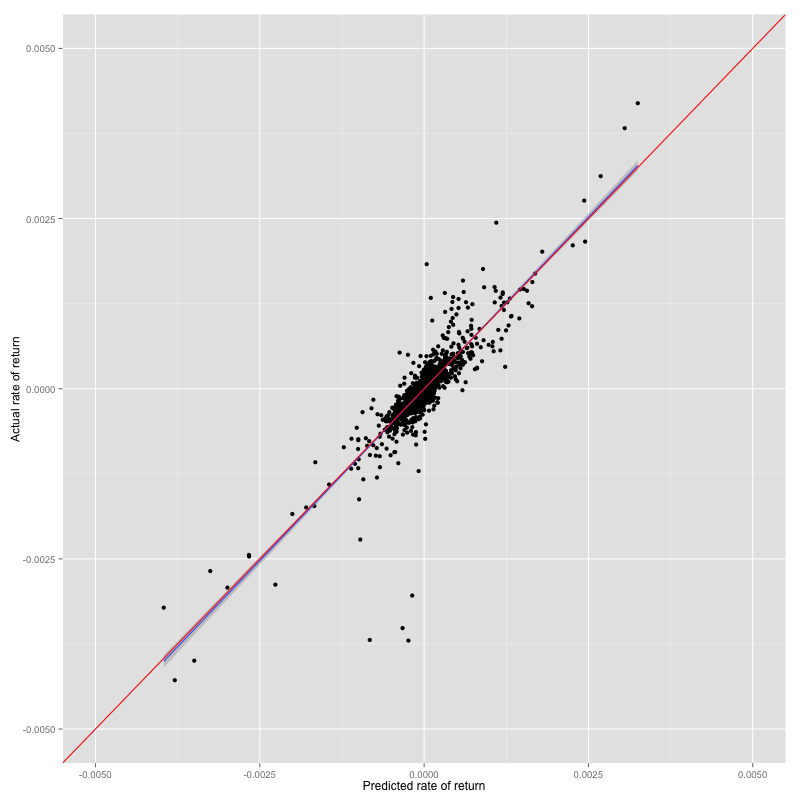
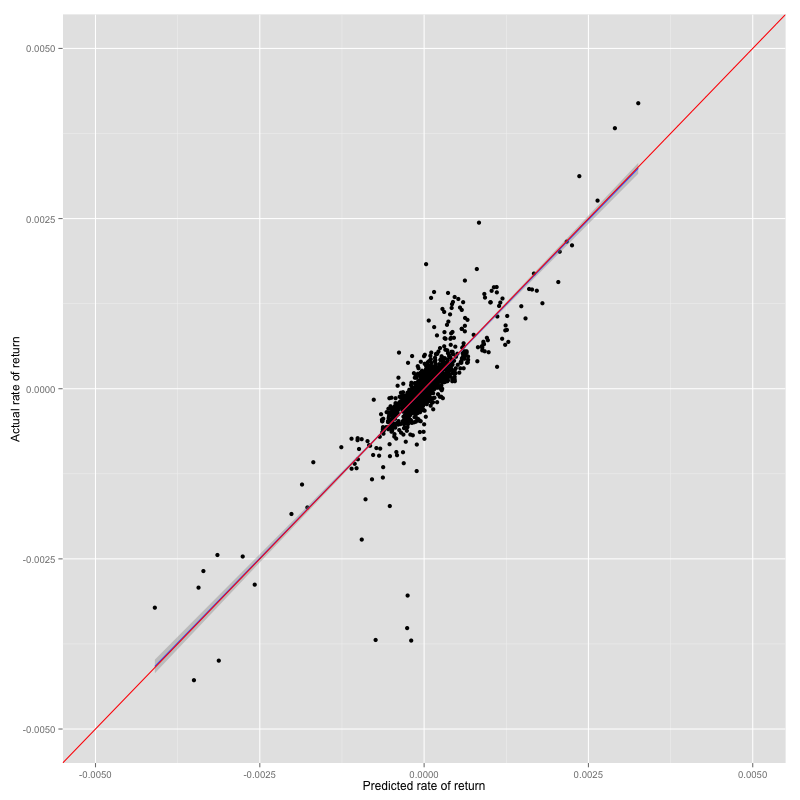
add plot predict vs actual

diff --git a/README.md b/README.md
@@ -43,6 +43,7 @@ Amount of transaction for test and train is 6000 between 2014.06.03 to 2014.06.1
 ### 3) Analyse features
 The model uses indicator values as its feature. We plot all features against each others too 
 
+*Execute R code*
 ```
 # Prepare raw data
 source("forex_study.R")`
@@ -80,10 +81,12 @@ Now we can verify that ADX give no information about rate of return.
 We choose generalized linear model (GLM) because it is flexible generalization for ordinary linear regression.
 
 ### Training
+*Execute R code*
 ```
 forex_train_model(data)
 ```
-**Result**
+**Result of GLM training**
+*Measure GLM RMSE*
 ```
 Generalized Linear Model 
 
@@ -100,7 +103,19 @@ Resampling results
   RMSE      Rsquared  RMSE SD   Rsquared SD
   0.000222  0.708     1.38e-05  0.0315     
 
- 
+```
+
+### Testing
+RMSE number is good for comparing model. but it doesn't give any picture of how well it predict. We interprete the result by;
+
+* If rate of return > 0, count as **PROFIT (1)**
+
+* If rate of return <= 0, count as **LOSE (-1)**
+
+And plot confusion matrix to visualization of the performance of an algorithm.
+
+*Measure GLM accuracy*
+```
 Confusion Matrix and Statistics
 
           Reference
@@ -127,24 +142,89 @@ Prediction   -1    1
                                          
        'Positive' Class : -1    
 ```
+GLM model accuracy from estimation above is 81.8% which is quite high. But there is a room for improvement
 
-### Testing
-RMSE number is good for comparing model. but it doesn't give any picture of how well it predict. We interprete the result by;
+#### Visualize prediction result
+We plot prediction result against actual rate of return to show how effective the algorithm is. The diagonal line(red) is ideal condition, dot closer to the line is preferred. Linear regression line(blue) of the plot shows relationship between prediction and actual. Blue line should be on red line in ideal case.
 
-* If rate of return > 0, count as **PROFIT (1)**
-
-* If rate of return <= 0, count as **LOSE (-1)**
-
-And plot confusion matrix to visualization of the performance of an algorithm.
+*Prediction result vs test set of GLM*
+![prediction result vs test set](https://raw.githubusercontent.com/natapone/Project_ForexStudy/master/Images/predict_result_vs_test_set_glm.png)
 
 ## Improvement
-not linear
+We analyse in further detail to optimize the model.
+
+### Improvement1: remove non-information input
+Simplify plots show that ADX give no relationship to rate od return. RSI, MFI and BBAND return similar pattern. We can remove some indicators to keep model as simple as possible. We rebuild model again with RSI and MACD then look at the result.
+
+*Execute R code*
+```
+d1 = model_improve_1(data)
+```
+
+*Measure RMSE of GLM improvement*
+```
+Generalized Linear Model 
+
+3552 samples
+   2 predictors
+
+No pre-processing
+Resampling: Bootstrapped (25 reps) 
+
+Summary of sample sizes: 3552, 3552, 3552, 3552, 3552, 3552, ... 
+
+Resampling results
+
+  RMSE      Rsquared  RMSE SD   Rsquared SD
+  0.000224  0.7       1.41e-05  0.0312     
+```
+
+*Measure accuracy*
+``` 
+Confusion Matrix and Statistics
+
+          Reference
+Prediction   -1    1
+        -1 1021  156
+        1   224  964
+                                          
+               Accuracy : 0.8393          
+                 95% CI : (0.8239, 0.8539)
+    No Information Rate : 0.5264          
+    P-Value [Acc > NIR] : < 2.2e-16       
+                                          
+                  Kappa : 0.6787          
+ Mcnemar's Test P-Value : 0.0005881       
+                                          
+            Sensitivity : 0.8201          
+            Specificity : 0.8607          
+         Pos Pred Value : 0.8675          
+         Neg Pred Value : 0.8114          
+             Prevalence : 0.5264          
+         Detection Rate : 0.4317          
+   Detection Prevalence : 0.4977          
+      Balanced Accuracy : 0.8404          
+                                          
+       'Positive' Class : -1  
+```
+
+*Prediction result vs test set of GLM improvment*
+![prediction result vs test set](https://raw.githubusercontent.com/natapone/Project_ForexStudy/master/Images/predict_result_vs_test_set_glm_improve1.png)
+
+The result shows that RMSE is slightly increase but accuracy is about 2% increase even we remove three indicators. We can use only RSI and MACD to build the model without decrease its prediction power.
+
+### Improvement2: not linear model
 
 Train with different algorithm
 
 SVM
 
-M5
+M5 = Model Tree
+
+regression trees Model
+http://en.wikipedia.org/wiki/Regression_tree
+
+Prediction trees use the tree to represent the recursive partition.
 
 ## Conclusion
 Self fullfil prediction
